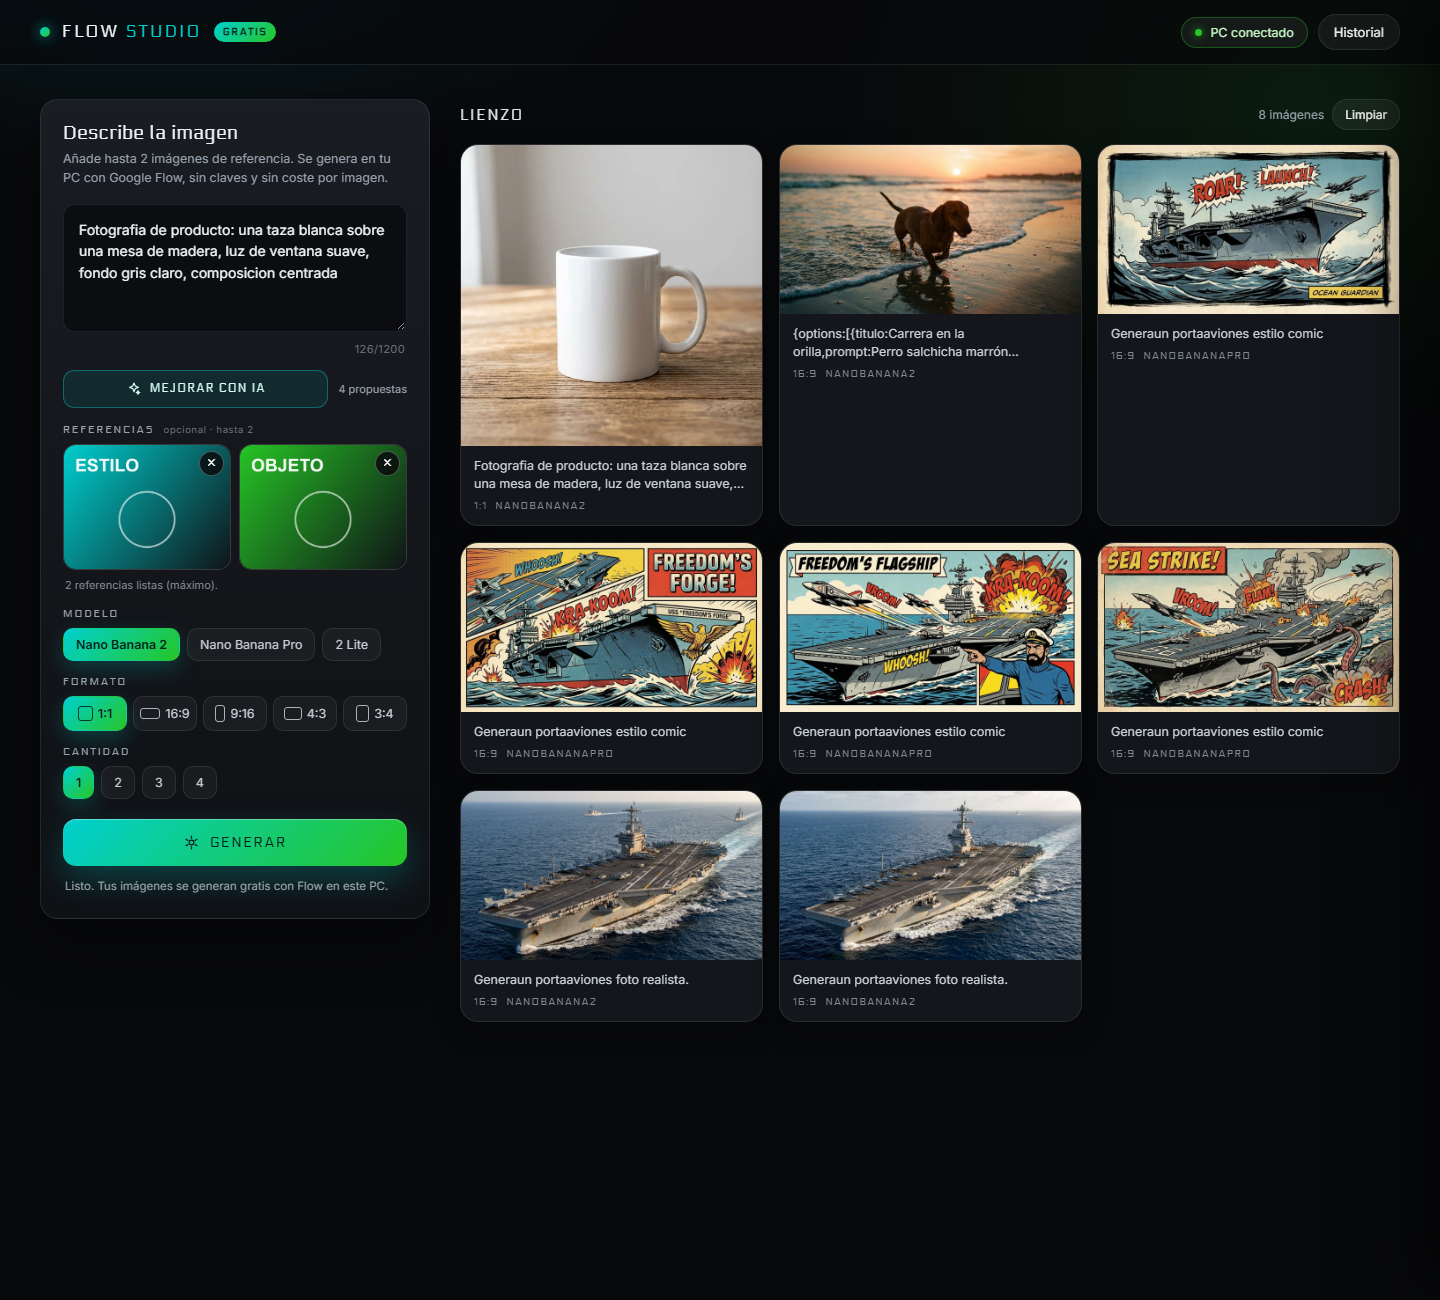
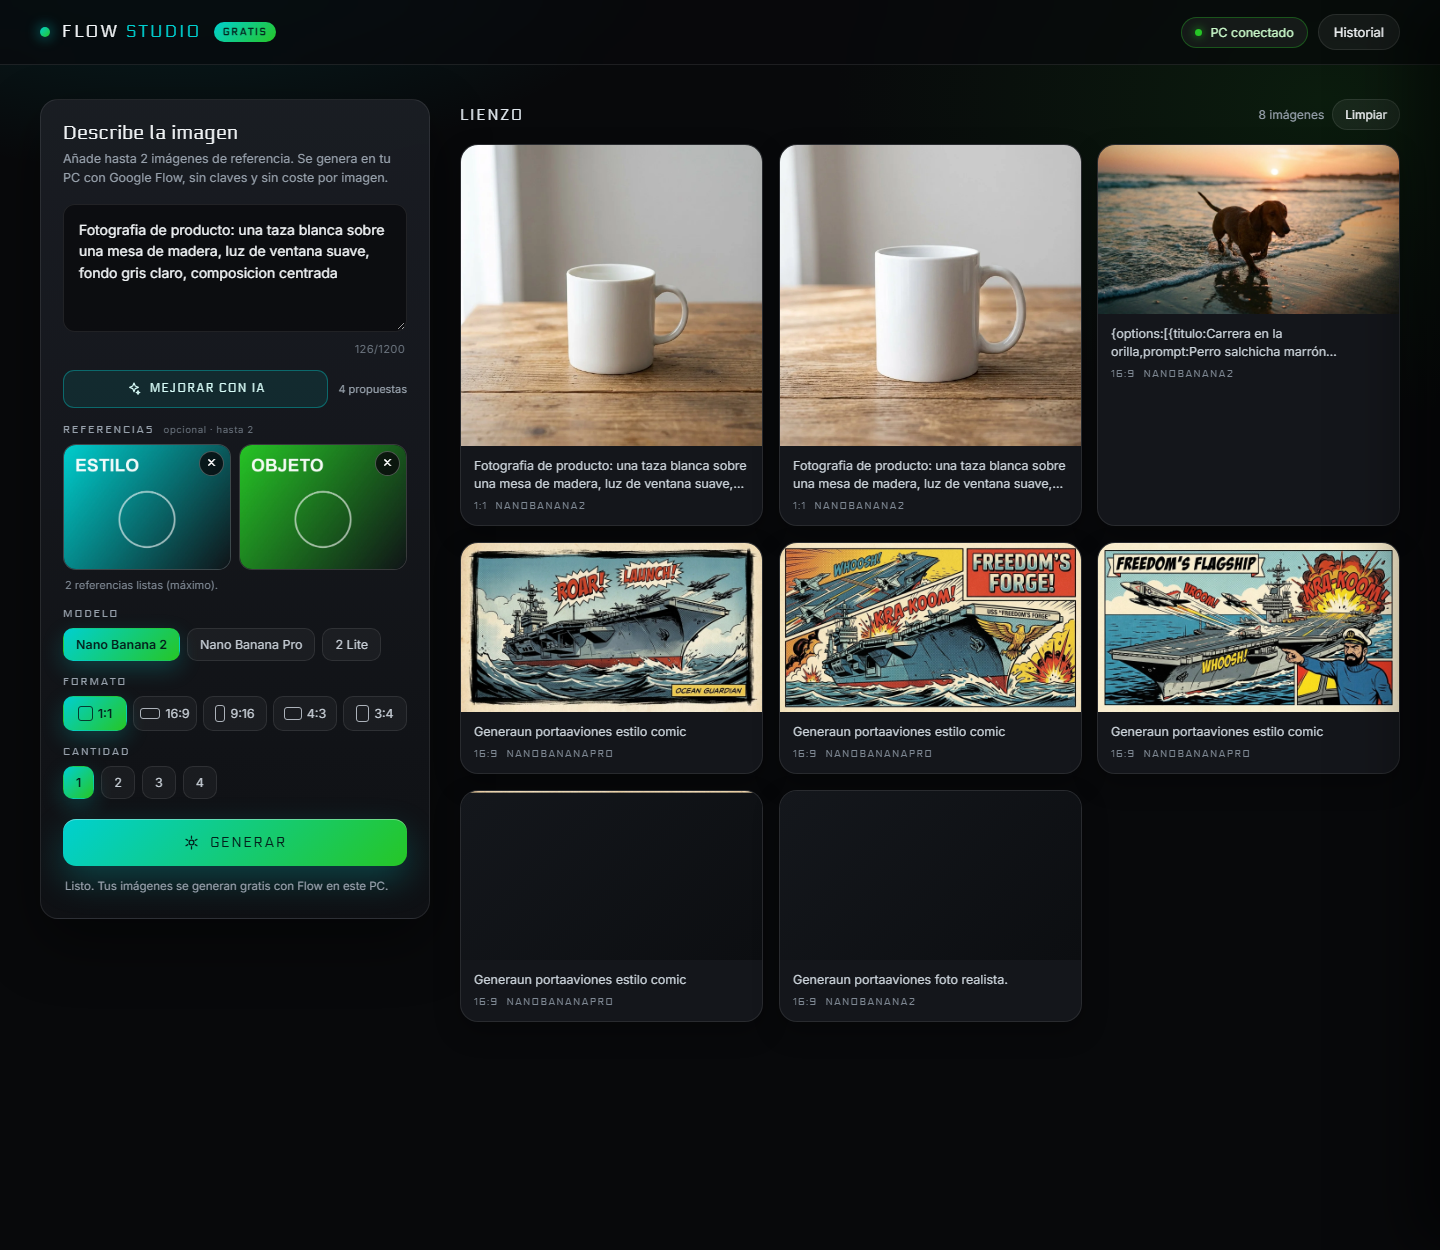
docs(flow-studio): evidencias finales con los assets d y la prueba de produccion

diff --git a/tools/evidencias/2026-10-25-flow-studio-referencias/README.md b/tools/evidencias/2026-10-25-flow-studio-referencias/README.md
@@ -9,10 +9,10 @@ Flow (una o dos, según haya).
 
 | Fichero | Cambio |
 |---|---|
-| `apps/flow_studio/index.html` | bloque «Referencias» (2 ranuras), textos y assets fechados |
+| `apps/flow_studio/index.html` | bloque «Referencias» (2 ranuras) con botón `.ref-pick` + botón quitar hermano, textos y assets fechados |
 | `apps/flow_studio/app.js` | subida por clic o arrastre, reescalado a 1280 px JPEG, quitar, envío con `refs`, miniaturas en la tarjeta y `markDone` acotado a `.card-media` |
-| `apps/flow_studio/app.css` | estilos de ranuras y franja de referencias; `max-height`/scroll del panel en pantallas bajas |
-| `app.20261025b.css`, `app.20261025c.js` | copias fechadas servidas por el HTML nuevo (la CDN de Hostinger cachea por ruta) |
+| `apps/flow_studio/app.css` | estilos de ranuras, foco visible (outline cian 2 px) y `max-height`/scroll del panel en pantallas bajas |
+| `app.20261025a/b/d.css`, `app.20261025a/c/d.js` | copias fechadas servidas por el HTML (la CDN de Hostinger cachea por ruta) |
 | `apps/flow_studio/flow_queue.php` | valida/guarda hasta 2 referencias por trabajo, las entrega en `claim` y borra los ficheros al terminar |
 | `apps/flow_studio/.gitignore` | ignora `flow_store/ref/` |
 | `E:\herramientas\google-flow\flow_studio_worker.py` | materializa las referencias base64 y pasa `--image` repetido; limpia los temporales |
@@ -22,7 +22,7 @@ Flow (una o dos, según haya).
 
 **Sintaxis y estática**
 
-- `node --check` en `app.js` y `app.20261025c.js`.
+- `node --check` en `app.js` y `app.20261025d.js`.
 - `ast.parse` en `flow_studio_worker.py` y `flow.py`.
 - `php-parser` (PHP 8.2) sobre `flow_queue.php`, `proxy.php` e `history.php`.
 
@@ -30,6 +30,9 @@ Flow (una o dos, según haya).
 
 - 2 ranuras; rechazo de un `.txt` con nota de error; dos PNG arrastrados dejan
   miniatura, botón quitar y «2 referencias listas (máximo)».
+- Sin interactivos anidados (`.ref-slot` no lleva `role`; `.ref-pick` y `.ref-remove`
+  son hermanos); Tab llega a `.ref-pick` con `:focus-visible` y outline `solid 2px`.
+- Las etiquetas `aria-label` cambian a «Referencia N cargada…» al cargar.
 - `POST` con 2 data URLs JPEG; tarjeta con 2 miniaturas y meta «2 referencias»;
   tras completar, la imagen va a `.card-media` y las miniaturas no se pisan.
 - Sin errores de consola.
@@ -45,7 +48,11 @@ Flow (una o dos, según haya).
 | Prueba | Resultado |
 |---|---|
 | 1.ª (sin el fix de tarjeta) | 81 s; trabajo `done`; imagen 1024×1024 en el historial; la tarjeta quedó vacía (bug `querySelector('img')` cogía la miniatura) |
-| 2.ª (con `app.20261025c.js`) | 76 s; trabajo `done`; `.card-media img` cargada 1024×1024 (91.704 B JPEG, HTTP 200); 2 miniaturas de referencia intactas; meta «2 referencias»; consola limpia |
+| 2.ª (con `app.20261025c.js`) | 76 s; trabajo `done`; `.card-media img` cargada 1024×1024 (91.704 B JPEG, HTTP 200); 2 miniaturas intactas; meta «2 referencias» |
+| 3.ª (versión final, assets `d`) | trabajo `done`; imagen 1024×1024 (101.466 B JPEG, HTTP 200); 2 miniaturas intactas; meta «2 referencias»; consola limpia. Tardó 469 s por la cola compartida con otras sesiones (el worker tenía 6 pendientes ajenos) |
+
+La primera prueba (20:02) destapó el fallo de la tarjeta; la tercera (20:28) es la
+versión que quedó publicada (`app.20261025d.css/js`).
 
 **Geometría (Chrome, antes → después)**
 
@@ -60,12 +67,19 @@ botón GENERAR queda visible tras desplazarlo (`max-height: calc(100vh - 104px)`
 
 ## Commits
 
-`4fe351ed` (feat), `b742f8ae` (re-disparar despliegue: el primer push no desplegó),
-`4120b1a9` (fix de la tarjeta y del scroll del panel).
+`4fe351ed` (feat), `b742f8ae` (re-disparo), `4120b1a9` (fix tarjeta + scroll),
+`f6ddfff8` (accesibilidad de ranuras), `f4fb7537` (re-disparo final), más los
+commits `docs` de memoria y evidencias.
 
-## Limitación
+## Limitaciones
 
-El worker de PC corre con `pythonw` y no deja log: que Flow reciba las 2
-referencias se infiere de que `claim` las entrega verificadas y de que cualquier
-fallo de subida en `flow.py` habría marcado el trabajo como error. La imagen de
-prueba no evidencia visualmente los círculos sintéticos usados como referencia.
+- El worker de PC corre con `pythonw` y no deja log: que Flow reciba las 2
+  referencias se infiere de que `claim` las entrega verificadas y de que cualquier
+  fallo de subida en `flow.py` habría marcado el trabajo como error. La imagen de
+  prueba no evidencia visualmente los círculos sintéticos usados como referencia.
+- La prueba 3 tardó 469 s porque la cola es compartida y había 6 trabajos de otras
+  sesiones delante; no es un problema del cambio.
+- Incidencia ajena a este cambio: durante la verificación independiente se marcó
+  `fail` por error un trabajo de otra sesión (id `84a1caa8390e79ef`, prompt
+  «Cinematic double-exposure portrait…»). Esa sesión volvió a generar sus imágenes
+  después (hay 3 entradas nuevas en el historial), pero conviene saberlo.
